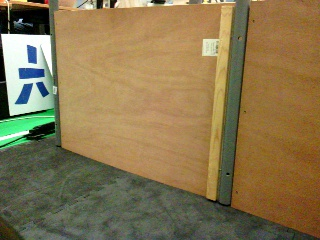
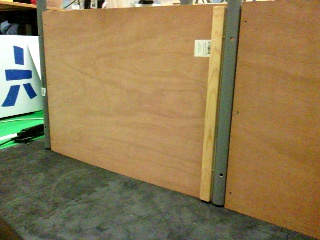
behavour lookAround

diff --git a/Quest_2/modules/behaviour/behaviour_v1.py b/Quest_2/modules/behaviour/behaviour_v1.py
@@ -44,9 +44,9 @@ class behaviour_v1():
 
     def lookAround(self):
         self.tools.cSubscribe()
-        for yaw in range(0,10):
-            print("yaw: "+str(yaw*0.1))
-            self.motion.setHead(yaw*0.1,-4.5)
+        for yaw in [x * 0.1 for x in range(0, 10)]:
+            print("yaw: "+str(yaw))
+            self.motion.setHead(yaw,-4.5)
             time.sleep(0.5)
             img, pos = self.tools.getSnapshot()
             self.tools.SaveImage("pitch.jpg",img)
